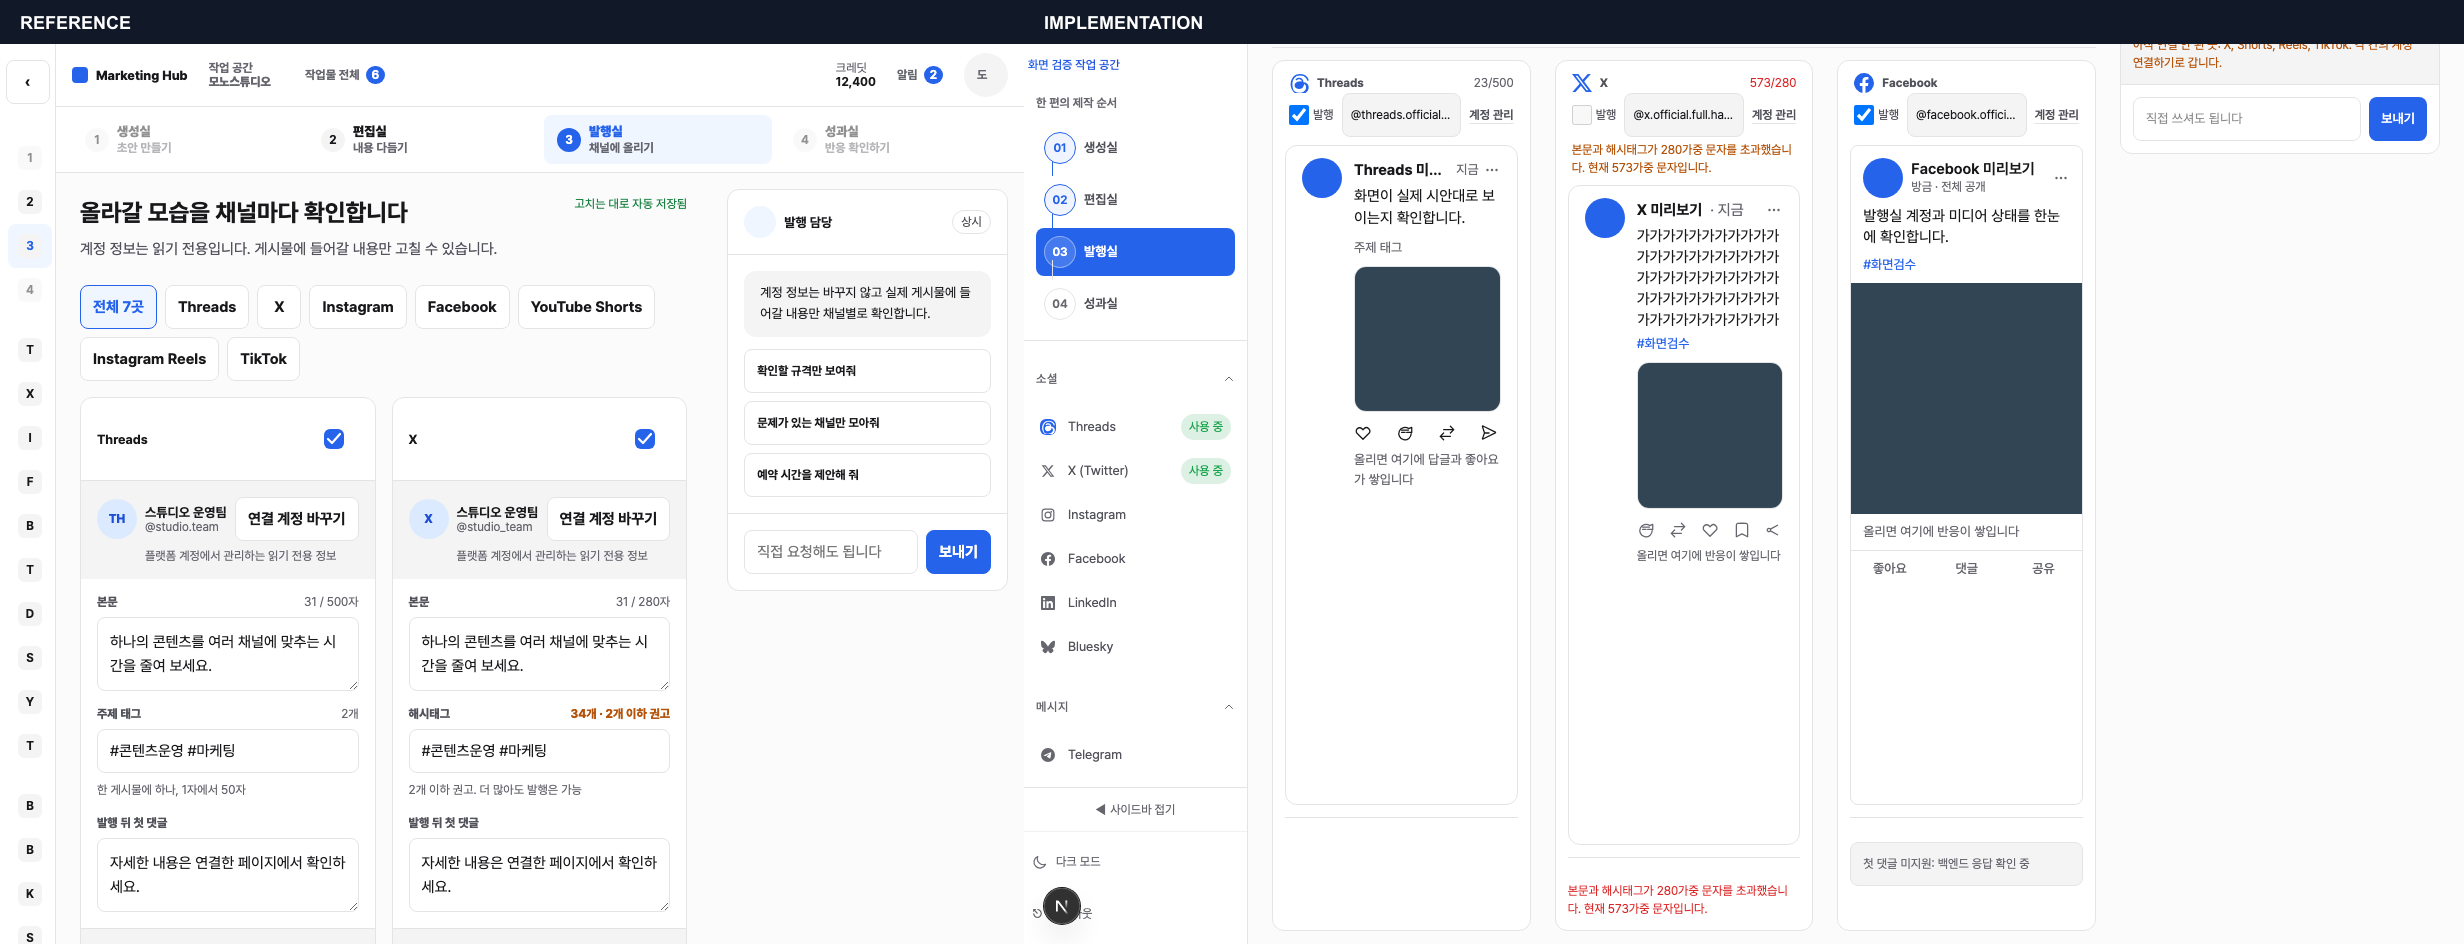
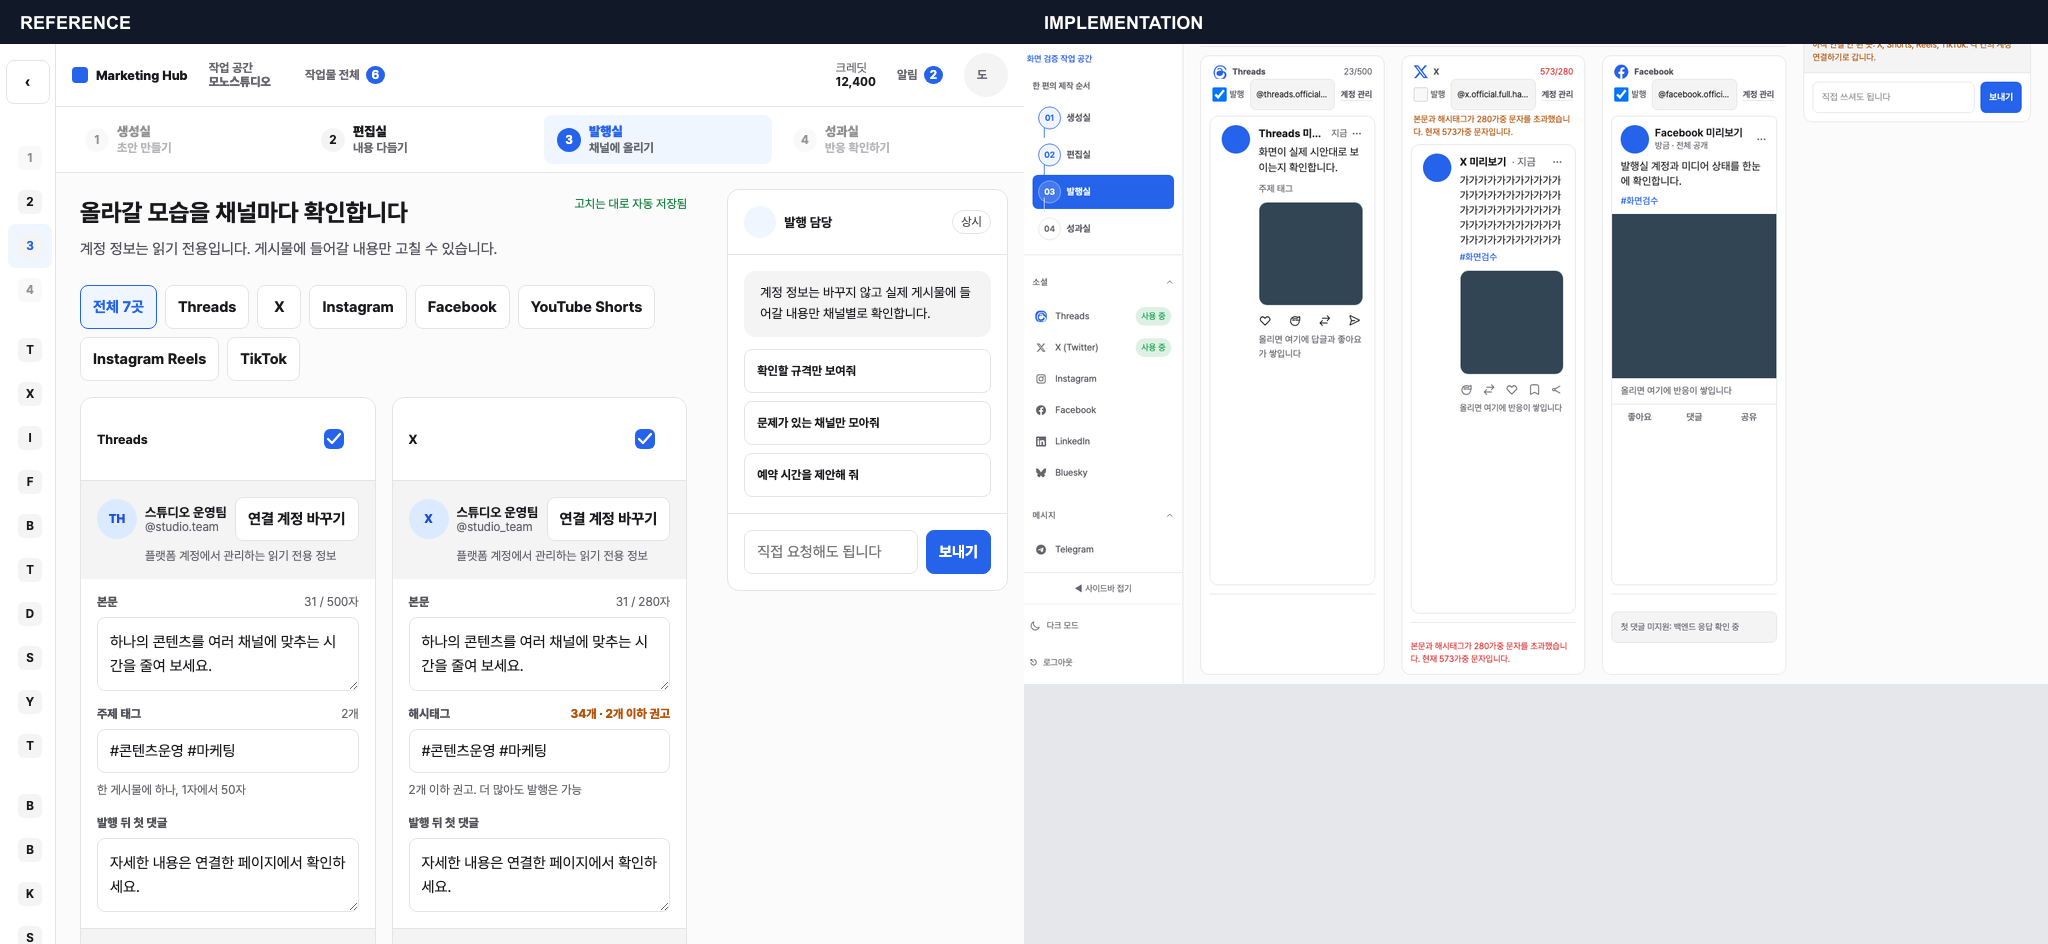
fix(studio): close PR 94 review gaps
EV-ID: none (제품 화면 회귀 수정, 하네스 변경 없음)

diff --git a/dashboard/src/app/studio/page.tsx b/dashboard/src/app/studio/page.tsx
@@ -647,10 +647,17 @@ export default function StudioPage() {
   const selectedTargets = selectedPublishTargets(includes)
     .filter((platform) => !publishGuard(platform).disabledReason);
   const usableAccounts = (platform: PreviewPlatform) => (accountsByPlatform[platform] || []).filter((account) => account.connectionState === "connected");
+  const selectedConnectedAccountId = (platform: PreviewPlatform) => {
+    const selectedId = selectedAccounts[platform];
+    return selectedId && usableAccounts(platform).some((account) => account.id === selectedId)
+      ? selectedId
+      : undefined;
+  };
   const publishTargets = selectedTargets.filter((platform) => usableAccounts(platform).length > 0);
-  // 다시 연결해야 올릴 수 있는 채널. Buffer 도 끊긴 채널을 목록 위로 올려 재연결을 먼저 시킨다.
-  const reconnectTargets = selectedTargets.filter((platform) =>
-    (accountsByPlatform[platform] || []).length > 0 && usableAccounts(platform).length === 0);
+  // 선택이 자동으로 꺼진 뒤에도 재연결 행동이 사라지면 사용자는 복구할 길이 없다.
+  // 현재 발행 체크와 무관하게 만료·해제 계정이 하나라도 있는 채널을 안내한다.
+  const reconnectTargets = ALL.filter((platform) =>
+    (accountsByPlatform[platform] || []).some((account) => account.connectionState === "reconnect"));
   // 일부만 성공한 뒤에는 버튼이 '다시 발행'이 아니라 '실패한 곳만'이어야 한다.
   const publishRetryOnly = publishTargets.some((platform) => pub.status[platform] === "done")
     && publishTargets.some((platform) => pub.status[platform] === "failed");
@@ -758,18 +765,33 @@ export default function StudioPage() {
         }),
       );
       if (cancelled) return;
-      setSelectedAccounts((current) => Object.fromEntries(Object.entries(current).filter(([platform, accountId]) => (
-        (resolvedAccounts[platform] || []).some((account) => account.id === accountId)
-      ))));
       setIncludes((current) => Object.fromEntries(ALL.map((platform) => [
         platform,
-        Boolean(current[platform]) && (resolvedAccounts[platform]?.length ?? 0) > 0,
+        Boolean(current[platform])
+          && (resolvedAccounts[platform] || []).some((account) => account.connectionState === "connected"),
       ])));
       setAccountLoadPending({});
       setAccountsLoaded(true);
     })();
     return () => { cancelled = true; };
   }, [activeRoom, activeWorkspace]);
+
+  useEffect(() => {
+    if (!accountsLoaded) return;
+    const invalidPlatforms = Object.entries(selectedAccounts)
+      .filter(([platform, accountId]) => !(accountsByPlatform[platform] || [])
+        .some((account) => account.id === accountId && account.connectionState === "connected"))
+      .map(([platform]) => platform);
+    if (!invalidPlatforms.length) return;
+    const invalid = new Set(invalidPlatforms);
+    setSelectedAccounts((current) => Object.fromEntries(
+      Object.entries(current).filter(([platform]) => !invalid.has(platform)),
+    ));
+    setIncludes((current) => ({
+      ...current,
+      ...Object.fromEntries(invalidPlatforms.map((platform) => [platform, false])),
+    }));
+  }, [accountsByPlatform, accountsLoaded, selectedAccounts]);
   const cancelRef = useRef(false);
   const drawerRef = useRef<HTMLDivElement>(null);
   const dragRef = useRef(false);
@@ -1878,7 +1900,8 @@ export default function StudioPage() {
               platform: VIDEO_PUBLISH_NAME[p] || p,
               title: titles[p] || idea || "",
               description: publishText(p),
-              account_id: selectedAccounts[p] || undefined,
+              // 저장된 ID가 연결 해제·만료 상태로 바뀌어도 발행 요청에는 절대 싣지 않는다.
+              account_id: selectedConnectedAccountId(p),
               draft_id: did,
               // 대문으로 쓸 시점. 지원하는 플랫폼만 실제로 쓴다(lib/video-cover.ts).
               cover_seconds: supportsCoverTimestamp(p) ? (coverSeconds[p] ?? DEFAULT_COVER_SECONDS) : undefined,
@@ -1907,7 +1930,7 @@ export default function StudioPage() {
             : undefined,
           draft_id: did,
           publish_fields: platformPublishInput(p),
-          account_id: selectedAccounts[p] || undefined,
+          account_id: selectedConnectedAccountId(p),
           first_comment: capabilityFor(p).supported && firstComments[p]?.trim() ? firstComments[p].trim() : undefined,
           edit_format: editFormat,
         }, { signal: AbortSignal.timeout(PUBLISH_REQUEST_TIMEOUT_MS) });

diff --git a/dashboard/src/components/studio/BubbleEditor.tsx b/dashboard/src/components/studio/BubbleEditor.tsx
@@ -1143,6 +1143,7 @@ export function CardDeckPanel({ deck, onDeckChange }: { deck: CardDeck; onDeckCh
             <div
               key={slide.id}
               className={styles.thumbnailItem}
+              data-slide-selected={slide.id === activeSlideId ? "true" : "false"}
               draggable={!locked}
               data-slide-draggable={locked ? "false" : "true"}
               onDragStart={(event) => {
@@ -1180,21 +1181,24 @@ export function CardDeckPanel({ deck, onDeckChange }: { deck: CardDeck; onDeckCh
                 </span>
                 <span className={styles.thumbnailBars} aria-hidden="true"><i /><i /><i /></span>
               </Button>
-              <div className={styles.thumbnailActions}>
-                <Button size="sm" onClick={() => runSlide((d) => moveSlide(d, index, index - 1))} disabled={locked || index === 0}>▲</Button>
-                <Button size="sm" onClick={() => runSlide((d) => moveSlide(d, index, index + 1))} disabled={locked || index === deck.slides.length - 1}>▼</Button>
-                <Button size="sm" onClick={() => runSlide((d) => addSlide(d, index))} disabled={index === deck.slides.length - 1}>+장</Button>
-                {locked ? (
-                  <span className="rounded-chip border border-dashed border-border px-micro text-caption text-subtle" data-slide-locked>{SLIDE_ROLE_LABEL[slide.role]}는 지울 수 없습니다</span>
-                ) : (
-                  <Button size="sm" variant="secondary" onClick={() => runSlide((d) => deleteSlide(d, index))}>삭제</Button>
-                )}
-              </div>
             </div>
           );
         })}
       </nav>
       <section aria-label="카드 편집 스테이지" className={styles.stageColumn} data-card-deck-preview>
+        {activeSlide ? (
+          <div className={styles.slideToolbar} data-selected-slide-toolbar>
+            <span className="text-caption text-subtle">{activeIndex + 1}장</span>
+            <Button size="sm" onClick={() => runSlide((d) => moveSlide(d, activeIndex, activeIndex - 1))} disabled={activeSlide.role !== "chat" || activeIndex <= 1}>▲</Button>
+            <Button size="sm" onClick={() => runSlide((d) => moveSlide(d, activeIndex, activeIndex + 1))} disabled={activeSlide.role !== "chat" || activeIndex >= deck.slides.length - 2}>▼</Button>
+            <Button size="sm" onClick={() => runSlide((d) => addSlide(d, activeIndex))} disabled={activeIndex === deck.slides.length - 1}>+장</Button>
+            {activeSlide.role === "cover" || activeSlide.role === "cta" ? (
+              <span className="rounded-chip border border-dashed border-border px-micro text-caption text-subtle" data-slide-locked>{SLIDE_ROLE_LABEL[activeSlide.role]}는 지울 수 없습니다</span>
+            ) : (
+              <Button size="sm" variant="secondary" onClick={() => runSlide((d) => deleteSlide(d, activeIndex))}>삭제</Button>
+            )}
+          </div>
+        ) : null}
         {activeSlide && (activeSlide.role === "cover" || activeSlide.role === "cta") ? (
           <SlideRenderPreview canvas={renderPreview} />
         ) : null}

diff --git a/dashboard/tests/publish/studio-publish-ui.test.tsx b/dashboard/tests/publish/studio-publish-ui.test.tsx
@@ -489,6 +489,43 @@ describe("Studio publish result integrity", () => {
     expect(screen.getByText("아직 연결된 채널이 없어 발행할 수 없습니다.", { exact: false })).toBeInTheDocument();
   });
 
+  it("PR94-R1-MAJOR-02 거절: 저장된 해제 계정은 선택과 발행 요청에서 제거하고 다시 연결을 안내한다", async () => {
+    restoreStudio(["threads"]);
+    const storageKey = `studio_work:${mocks.workspace.id}`;
+    const stored = JSON.parse(localStorage.getItem(storageKey) || "{}");
+    localStorage.setItem(storageKey, JSON.stringify({
+      ...stored,
+      selectedAccounts: { threads: "threads-reconnect" },
+    }));
+    vi.stubGlobal("fetch", vi.fn(async (input: string | URL | Request) => {
+      const provider = /\/api\/channels\/([^/]+)\/accounts/.exec(String(input))?.[1];
+      const accounts = provider === "threads"
+        ? [
+            { id: "threads-reconnect", display_name: "예전 계정", username: "threads.expired", is_default: false, connection_state: "reconnect" },
+            { id: "threads-connected", display_name: "운영 계정", username: "threads.live", is_default: true, connection_state: "connected" },
+          ]
+        : [];
+      return Response.json({ accounts });
+    }));
+    mocks.apiPost.mockImplementation(async (path: string) => {
+      if (path === "/api/studio/drafts") return { id: "draft-account-reconnect" };
+      if (path === "/api/publish") return { ok: false, error: "테스트 발행 거절" };
+      throw new Error(`unexpected path: ${path}`);
+    });
+
+    render(<StudioPage />);
+
+    const checkbox = await screen.findByRole("checkbox", { name: "Threads 발행" });
+    await waitFor(() => expect(checkbox).not.toBeChecked());
+    expect(screen.getByTestId("publish-reconnect-link-threads")).toHaveAttribute("href", "/channels/threads");
+
+    fireEvent.click(checkbox);
+    fireEvent.click(await findEnabledButton("선택한 1곳에 지금 발행"));
+    await waitFor(() => expect(mocks.apiPost.mock.calls.filter(([path]) => path === "/api/publish")).toHaveLength(1));
+    const publishBody = mocks.apiPost.mock.calls.find(([path]) => path === "/api/publish")?.[1] as { account_id?: string };
+    expect(publishBody.account_id).not.toBe("threads-reconnect");
+  });
+
   it("FE3-PUBLISH-03 거절: 발행 이력은 발행실에 다시 노출하지 않는다", async () => {
     mocks.drafts = [{
       id: "draft-history",

diff --git a/dashboard/tests/components/bubble-editor.test.tsx b/dashboard/tests/components/bubble-editor.test.tsx
@@ -70,11 +70,13 @@ describe("BubbleEditor (F4, PR4)", () => {
 });
 
 describe("CardDeckPanel (표지·CTA 고정, 세션맥락: card-deck-ops 순수 함수만 호출)", () => {
-  it("표지·CTA 삭제 버튼은 비활성이고 이유 칩이 보인다", () => {
+  it("PR94-R1-MAJOR-01 정상: 장 조작은 선택 장용 툴바 하나에만 있고 표지·CTA는 잠긴다", () => {
     const d = deck();
     render(<CardDeckPanel deck={d} onDeckChange={vi.fn()} />);
     const lockedChips = document.querySelectorAll("[data-slide-locked]");
-    expect(lockedChips.length).toBe(2);
+    expect(document.querySelectorAll("[data-selected-slide-toolbar]")).toHaveLength(1);
+    expect(document.querySelector("[data-card-deck-thumbnail-strip] [data-selected-slide-toolbar]")).toBeNull();
+    expect(lockedChips.length).toBe(1);
     expect(lockedChips[0]).toHaveTextContent("는 지울 수 없습니다");
   });
 

diff --git a/dashboard/src/components/studio/BubbleEditor.module.css b/dashboard/src/components/studio/BubbleEditor.module.css
@@ -14,9 +14,11 @@
 
 .thumbnailStrip {
   display: flex;
+  max-height: calc(var(--editroom-stage-width) * 5 / 4);
   min-width: 0;
   flex-direction: column;
   gap: var(--stack-tight);
+  overflow-y: auto;
 }
 
 .thumbnailItem {
@@ -77,10 +79,12 @@
   width: 58%;
 }
 
-.thumbnailActions {
+.slideToolbar {
   display: flex;
   flex-wrap: wrap;
+  align-items: center;
   gap: var(--space-micro);
+  margin-bottom: var(--stack-tight);
 }
 
 .stageColumn {
@@ -241,14 +245,23 @@
   left: auto;
 }
 
+@media (max-width: 64rem) {
+  .cardDeckPanel {
+    --editroom-thumbnail-width: 6.25rem;
+  }
+}
+
 @media (max-width: 48rem) {
   .cardDeckPanel {
+    --editroom-thumbnail-width: 3.5rem;
     grid-template-columns: 1fr;
   }
 
   .thumbnailStrip {
+    max-height: none;
     flex-direction: row;
     overflow-x: auto;
+    overflow-y: hidden;
     padding-bottom: var(--stack-tight);
   }
 

diff --git a/docs/구현현황.md b/docs/구현현황.md
@@ -2,6 +2,26 @@
 
 > 이 문서는 2026-08-10 디자인 시스템 build에서 최초 생성됐다. 기존 현황 문서가 없었으므로 실제 코드·테스트·빌드 결과를 기준으로 작성했다.
 
+## 2026-09-28 PR #94 리뷰 r1 말풍선 스트립·해제 계정 안전성
+
+STAMP: 2026-09-28 23:13 KST | model: gpt-codex/GPT-5 | agent: code-builder | skill: qa, review | 근거: PR #94 r1 독립 리뷰, v70 §3.1·§3.4, Chromium 실화면 대조 | 고민: 화면을 줄이는 수정이 발행 계정 안전성이나 장 편집 기능을 잃게 하지 않도록 UI와 요청 경계를 각각 막았다.
+
+### 기존 구현 확인
+
+말풍선 9장 각각에 ▲·▼·+장·삭제가 상시 렌더되어 스트립 높이가 2,272px까지 늘었고 1024·390에서도 112px 폭을 유지했다. 저장된 계정 선택은 ID 존재만 검사해 `connection_state=reconnect` 계정도 발행 요청에 실릴 수 있었다. 일반 카드 중심 시안 검증은 말풍선 덱을 열지 않았고 CI에도 연결되지 않았다.
+
+### 유지한 기존 기능
+
+표지·CTA 고정, 대화 장 drag reorder, 장 추가·삭제·이동, 말풍선 직접 편집과 자동저장, 연결 계정 ID를 쓰는 정상 발행, 일반 카드·영상·발행실의 기존 3폭 검증을 유지했다. API·DB 스키마·마이그레이션은 변경하지 않았다.
+
+### 추가와 변경
+
+장 조작은 선택 장용 툴바 한 벌로 스트립 밖에 옮겼고 썸네일 폭은 1440·1024·390에서 112·100·56px로 고정했다. 데스크톱 스트립은 카드 높이 안에서 스크롤하고 모바일은 가로 스트립이다. 만료·해제 계정은 선택에서 제거하고 해당 채널 체크를 끄며 재연결 링크를 계속 표시한다. 발행 직전에도 선택 ID가 현재 연결 상태인지 재검증한다. 시안 스크립트는 실제 9장 말풍선 fixture와 3폭 수치·겹침·넘침 단언을 포함하고 CI verify에서 4분 제한으로 실행한다.
+
+### 검증과 현재 판정
+
+Vitest 2파일 49건, Chromium 말풍선 편집 17시나리오, TypeScript, production build가 통과했다. 실브라우저 시안 검증에서 1440·1024·390 썸네일은 112·100·56px이고, 1440 카드는 520×650px, 1024 카드는 498×622.5px, 390 카드는 308×385px이다. 세 폭 모두 좌우 넘침과 패널 내부 조작 요소 겹침, 콘솔 오류가 0이다. 세 폭 좌우 합성 PNG를 직접 열어 반복 조작줄 제거와 카드 면 말풍선을 확인했다. 원격 CI·운영 배포는 아직 미검증이다.
+
 ## 2026-09-28 발행실 7채널 계정·표지 행 통일
 
 STAMP: 2026-09-28 22:10 KST | model: gpt-codex/GPT-5 | agent: code-builder | skill: qa, review | 근거: v70 발행 규격, Chromium 1440·1024·390 좌표 측정, 1440·390 실화면 직접 대조 | 고민: 채널마다 내용 길이는 달라도 카드 머리 구조와 기준선은 같아야 하므로 가변값은 핸들 칩 하나에만 맡겼다.

diff --git a/wiki/ops/session-state.md b/wiki/ops/session-state.md
@@ -1,3 +1,12 @@
+## 2026-09-28 23:13 KST PR #94 리뷰 r1 수정·실브라우저 검증 진행
+
+- handoff basis: 사용자가 지정한 동일 worktree와 `review94-r1.md`를 primary로 삼았다. 직전 SIGTERM 뒤 남은 변경은 QA tracker NG 등록뿐이어서 중복 없이 이어갔다.
+- 원인과 수정: 말풍선 각 장의 상시 조작줄을 선택 장용 외부 툴바 한 벌로 옮겼고 스트립 폭을 112·100·56px로 분기했다. 만료·해제 계정은 로딩 완료 뒤 선택·체크에서 제거하고, 발행 요청 직전에도 연결 상태를 재검증하며 재연결 링크를 유지한다.
+- 자동화: 실제 9장 말풍선 fixture를 v70 시안 스크립트에 추가하고 3폭 썸네일 수치·스트립 방향·높이·겹침·넘침을 단언한다. CI verify는 독립 4분 상한과 서버/E2E timeout·종료 trap으로 이 스크립트를 실행한다.
+- 검증: Vitest 2파일 49건, Chromium 말풍선 E2E 17시나리오, TypeScript, production build PASS. CI와 같은 `STUDIO_V70_COMPARE=0` 경로도 유한 시간 안에 PASS했다. 1440·1024·390 v70 실화면은 썸네일 112·100·56px, 9장, 단일 툴바, 좌우 넘침·패널 조작 겹침·콘솔 오류 0이다. 세 폭 좌우 합성 PNG를 직접 열어 확인했다.
+- 최종 리뷰: SQL·스키마·API 계약 변경은 없고, 발행 직전 연결 상태 재검증과 선택 상태 정리, 실제 fixture 기반 CI 회귀를 확인했다. 이번 수정 범위에서 추가 BLOCK·MAJOR는 발견하지 않았다.
+- 다음 실행: 로컬 변경은 이 기록과 함께 `git HEAD`에 커밋한다. push·원격 CI·운영 배포는 컨트롤러 소유이며 현재 미검증이다.
+
 ## 2026-09-28 22:10 KST 발행실 7채널 계정·표지 행 정합 완료
 
 - handoff basis: 사용자가 지정한 동일 worktree와 직전 캡처 반려를 primary로 삼았다. tmux 인계는 종료된 pane뿐이라 별도 작업 기준으로 채택하지 않았다.

diff --git a/docs/qa/qa-tracker.md b/docs/qa/qa-tracker.md
@@ -1,3 +1,11 @@
+## 2026-09-28 PR #94 독립 리뷰 r1 말풍선 스트립·해제 계정·시안 E2E ❌ NG → ✅ 로컬 PASS
+
+| 요청번호 | 요청 요지 | 테스트번호 | 판정 | 증거 |
+|---|---|---|---|---|
+| PR94-R1-MAJOR-01 | 말풍선 덱 스트립을 1440·1024·390에서 112·100·56px로 유지하고 상시 장 조작 단추를 제거 | PR94-R1-BUBBLE-01 | ✅ 로컬 PASS | 9장 각각의 조작줄을 없애고 선택 장용 외부 툴바 1개만 남겼다. Chromium 실측에서 1440은 112px 세로 스트립, 390은 56px 가로 스트립이며 스트립은 카드 높이를 넘지 않고 패널 내부 조작 요소 겹침이 0이다. |
+| PR94-R1-MAJOR-02 | 연결 해제·만료 계정을 선택과 발행 요청에서 제외하고 체크 해제·재연결 행동 제공 | PR94-R1-ACCOUNT-01 | ✅ 로컬 PASS | 저장 선택이 `reconnect`이고 같은 채널에 연결 계정도 있는 회귀에서 선택 제거·체크 해제·재연결 링크를 확인했다. 다시 체크해 발행한 요청 본문에는 해제 계정 ID가 없었다. |
+| PR94-R1-MINOR-01 | 말풍선 덱 fixture를 시안 검증에 포함하고 제한시간 있는 CI verify 단계에서 실행 | PR94-R1-VISUAL-01 | ✅ 로컬 PASS, 원격 미검증 | v70 시안 스크립트가 실제 9장 fixture를 열어 폭·방향·높이·겹침·넘침을 단언하고 비교 PNG를 만든다. CI verify에 4분 step, 서버 60초, E2E 150초 제한과 종료 trap을 연결했다. 원격 CI는 push 전이라 미검증이다. |
+
 ## 2026-09-28 발행실 7채널 계정 행 정합 반려 ❌ NG → ✅ 로컬 PASS
 
 | 요청번호 | 요청 요지 | 테스트번호 | 판정 | 증거 |
